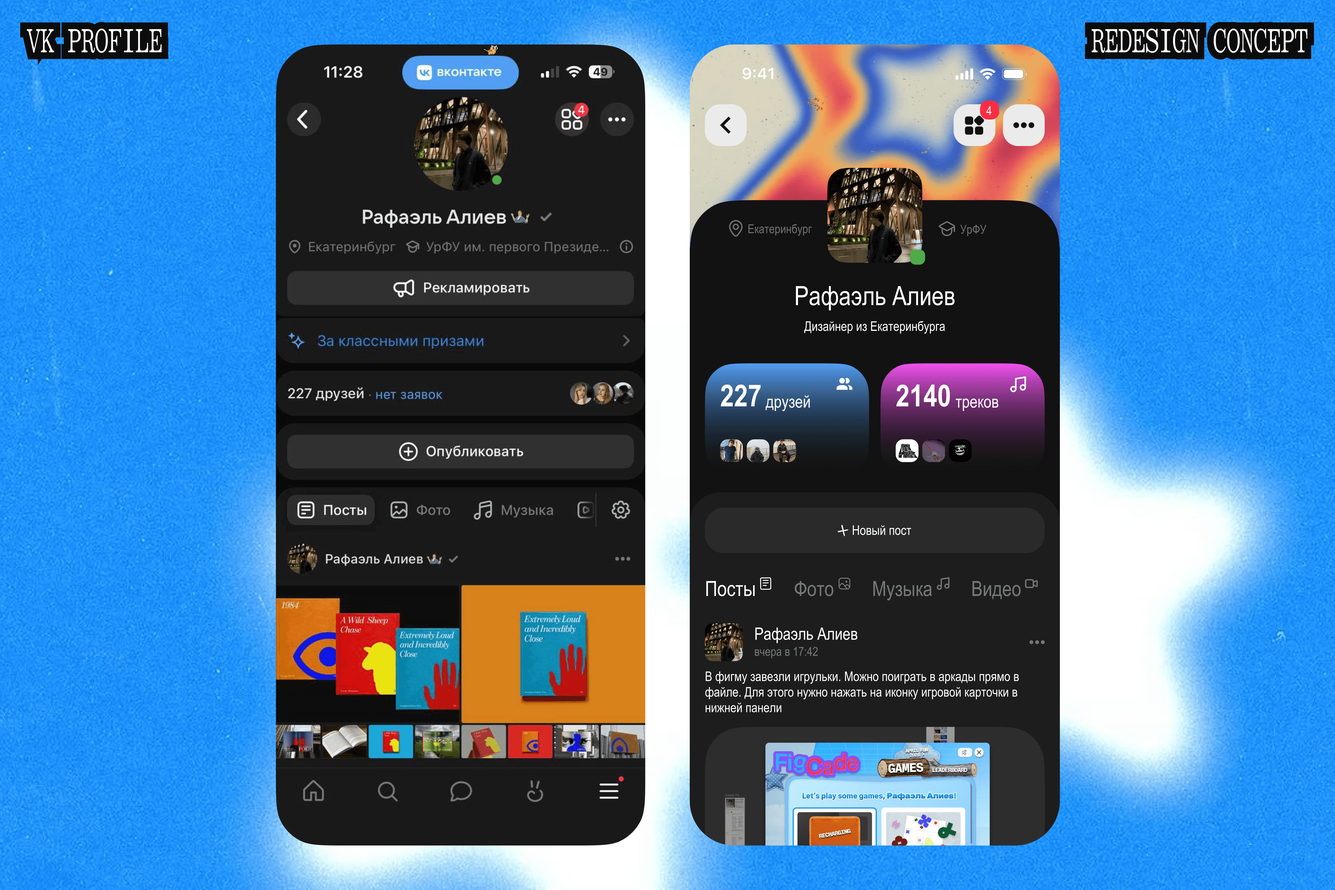
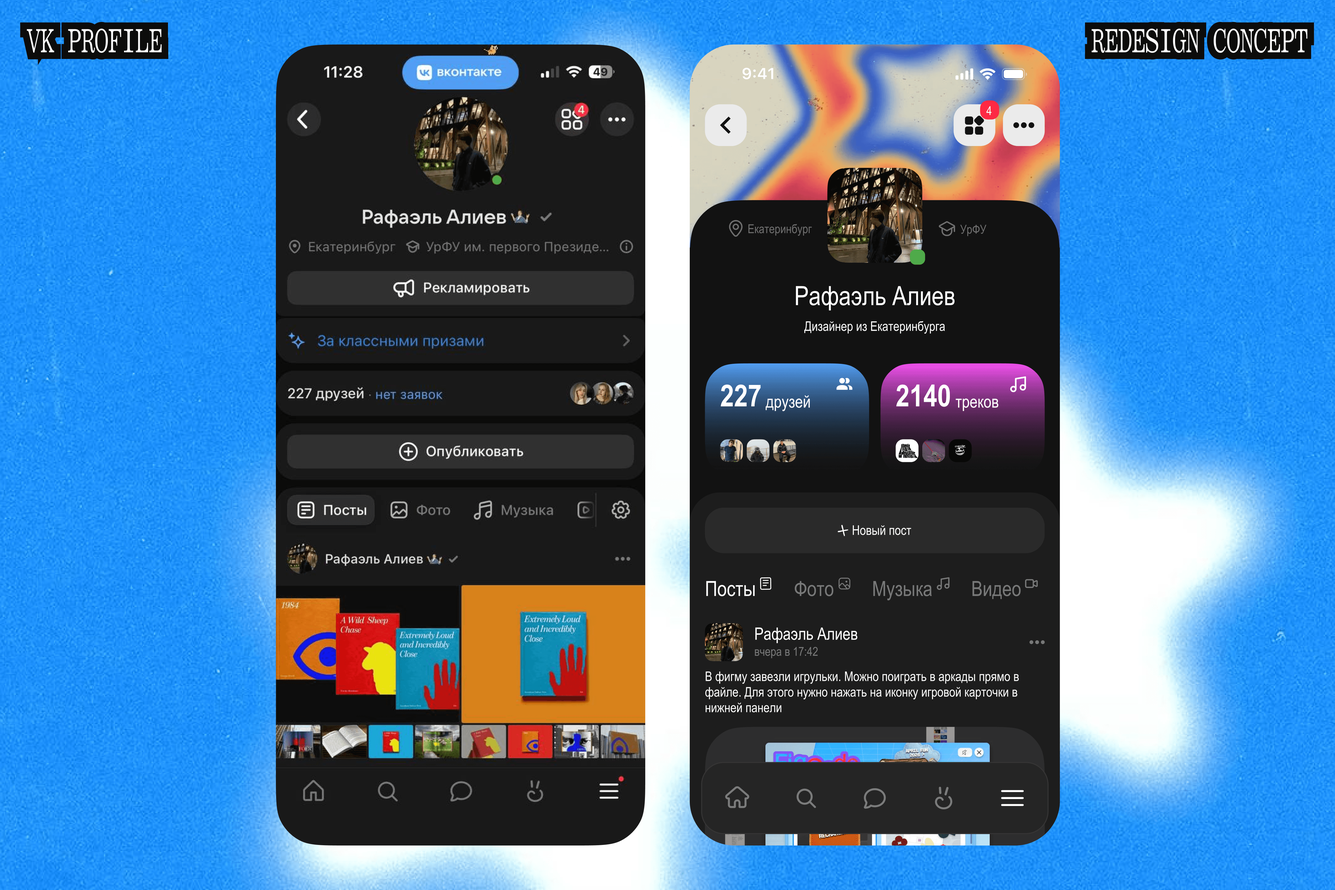
feat: update VK redesign shot-5 asset on home

diff --git a/index.html b/index.html
@@ -522,7 +522,7 @@
             <article class="shots__item reveal">
               <img
                 class="shots__image"
-                src="./assets/images/home/shots/shot-5.png?v=20260417-shots-vk-redesign-1"
+                src="./assets/images/home/shots/shot-5.png?v=20260417-shots-vk-redesign-2"
                 alt="Редизайн страницы профиля ВК"
                 loading="lazy"
                 decoding="async"
